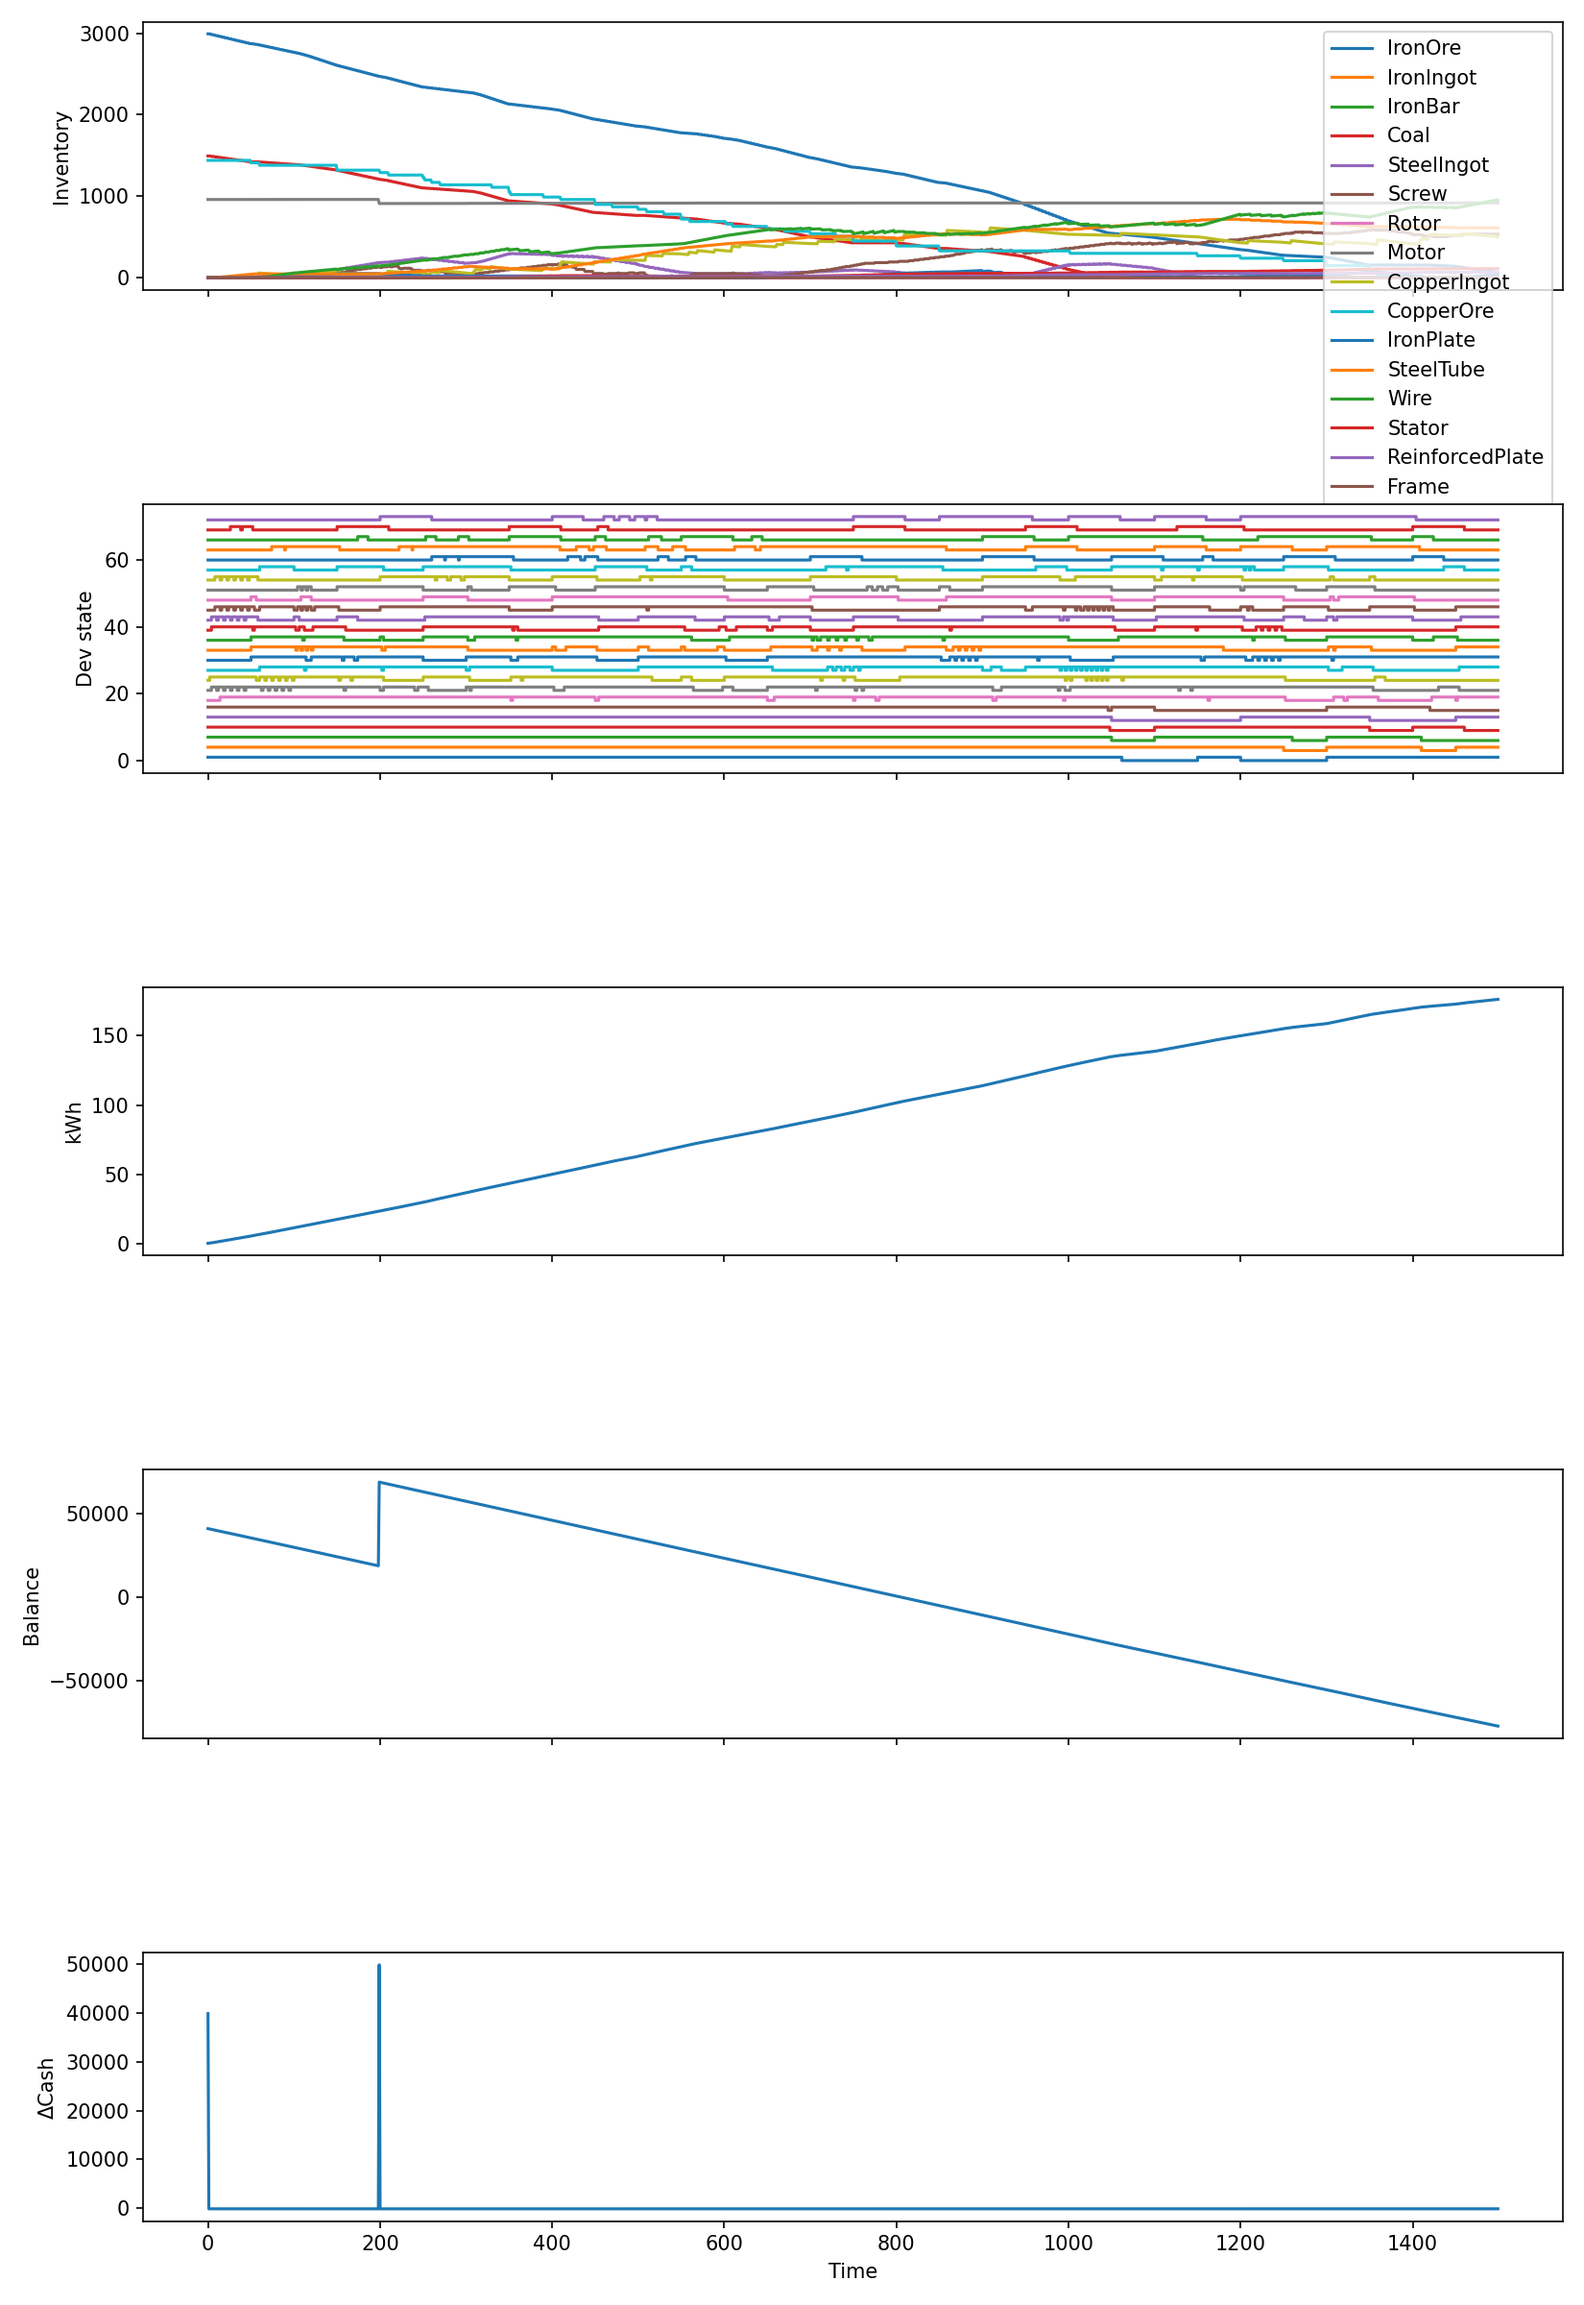
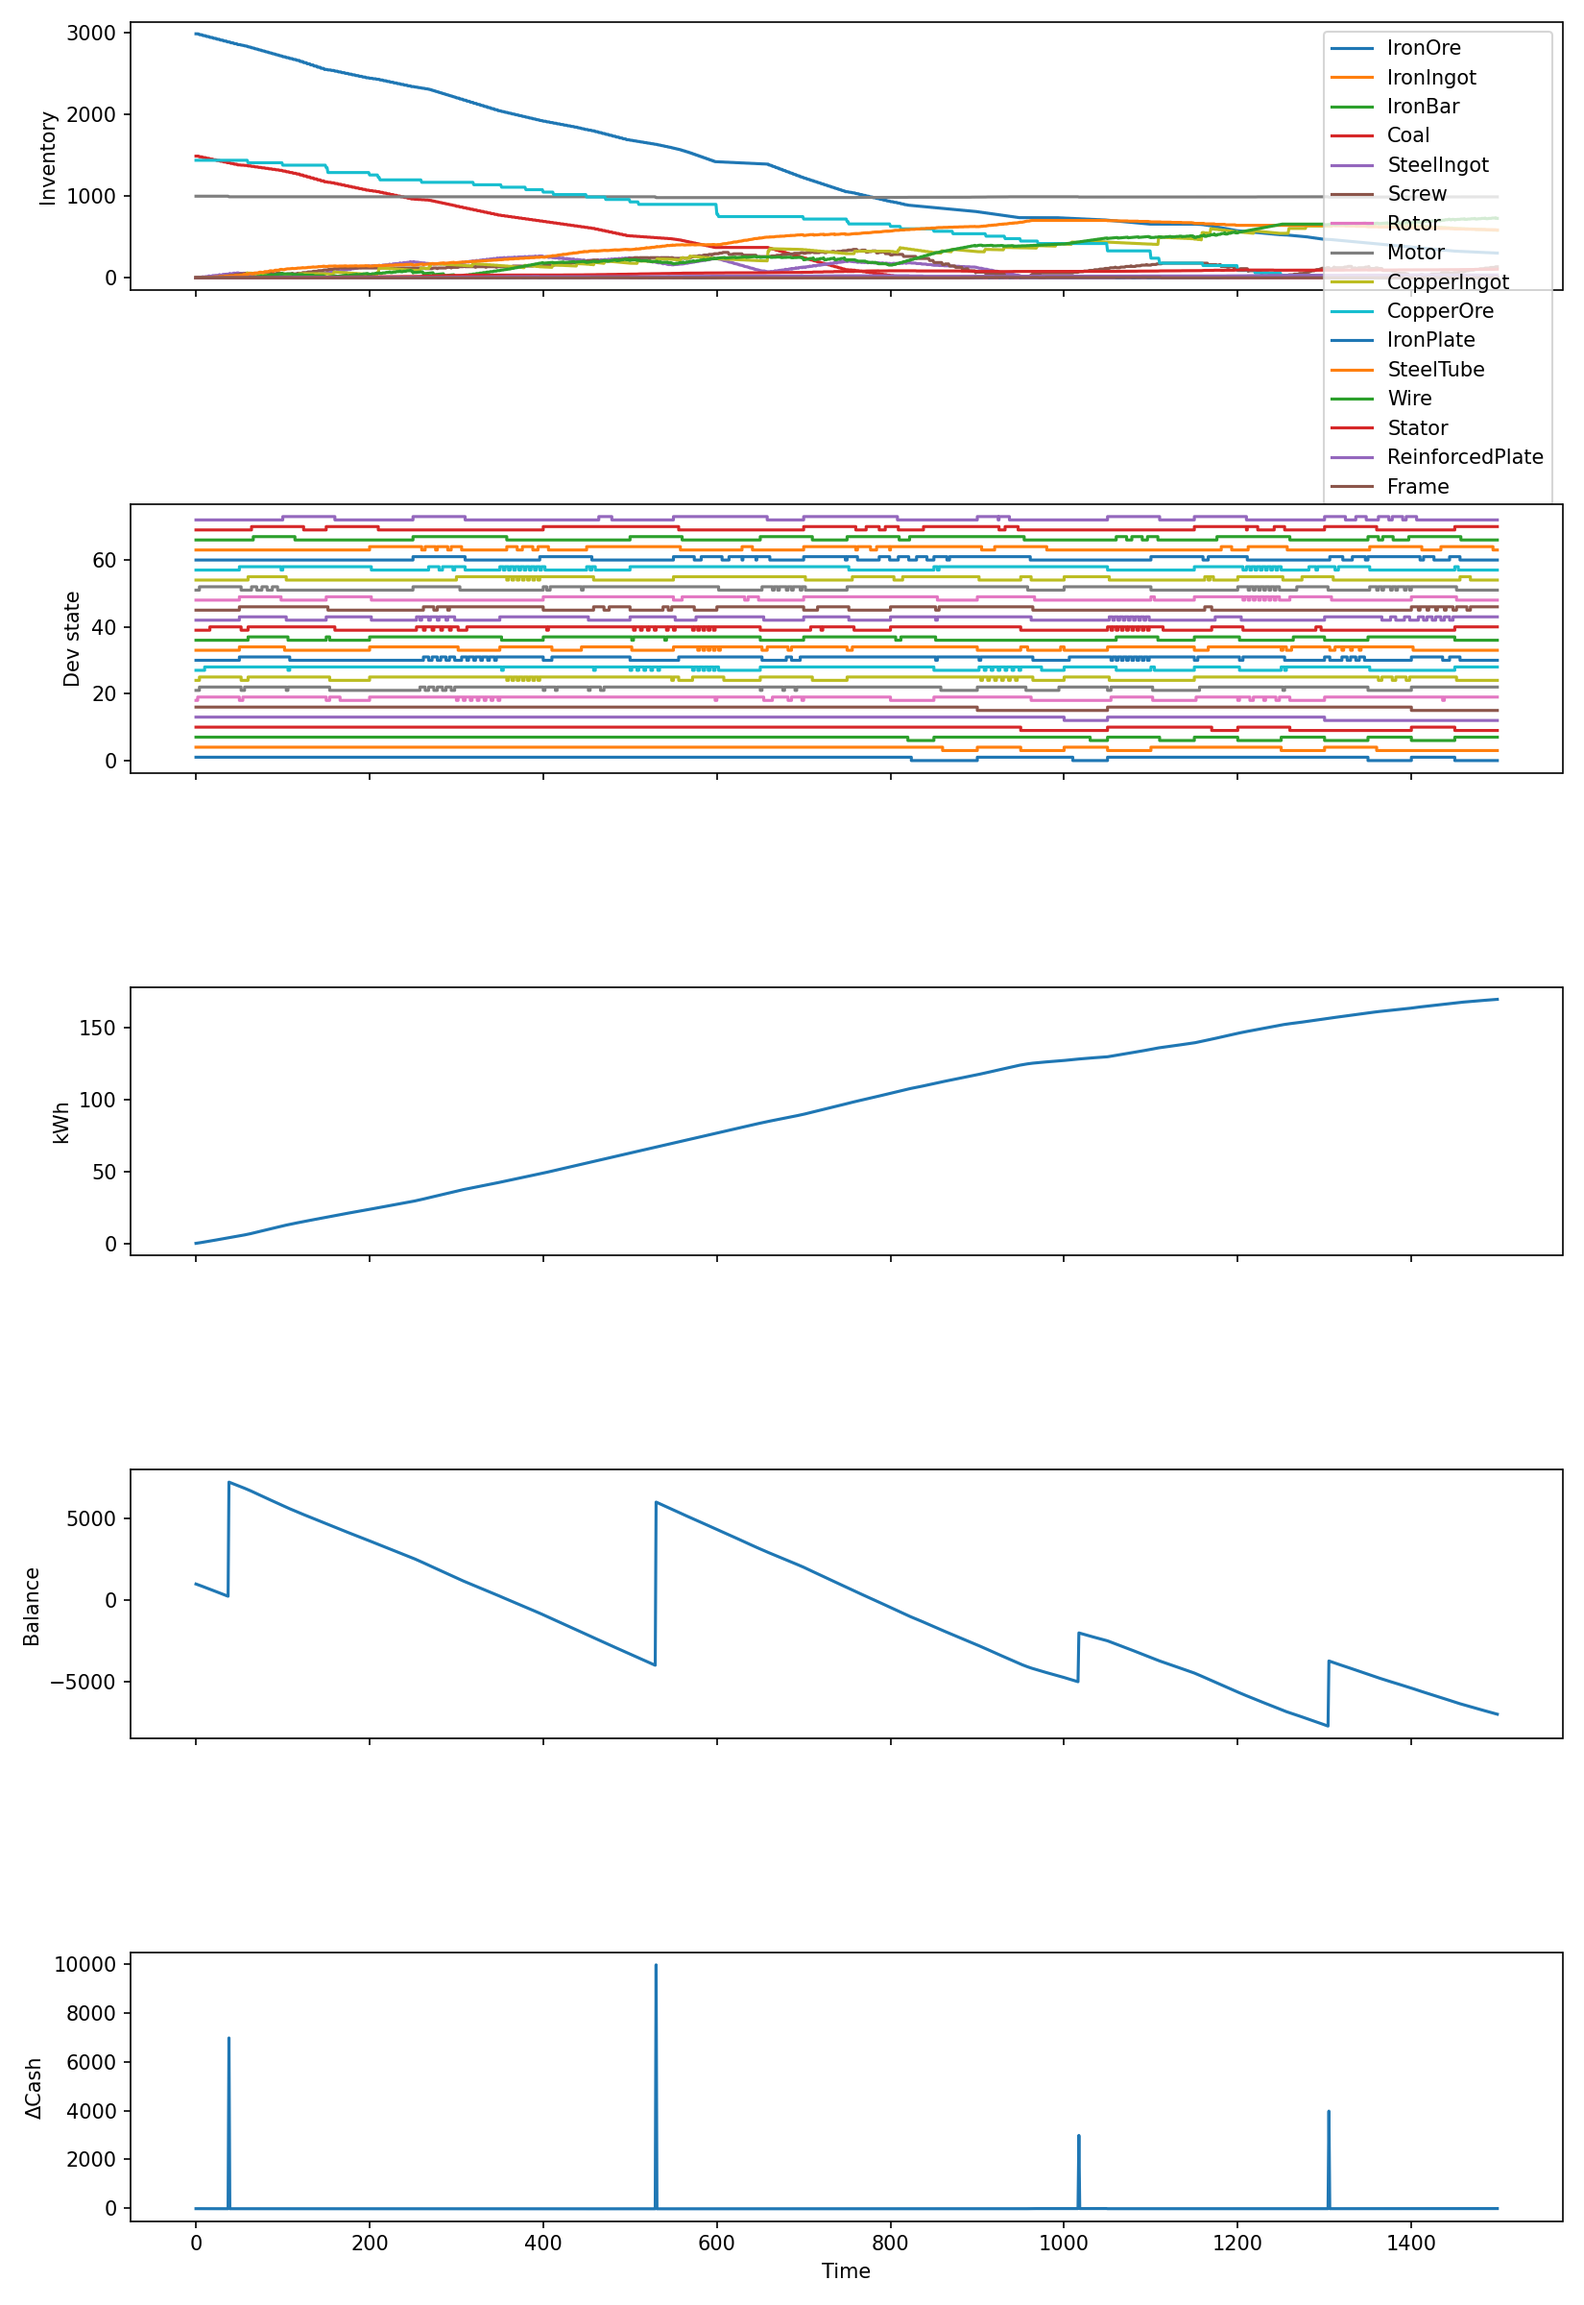
初步随机订单

diff --git a/pycode/OrderManagerRuntime.py b/pycode/OrderManagerRuntime.py
@@ -1,5 +1,8 @@
 # 轮次计时判断订单是否due了
 import bisect
+import random
+
+import numpy as np
 
 from pycode.data_class import Order
 
@@ -15,6 +18,8 @@ def get_runtime_order_obj_list(init_order_list) -> list:
 class OrderManagerRuntime:
     def __init__(self, init_order_list: list):
         self.runtime_order_obj_list = get_runtime_order_obj_list(init_order_list)
+        # TODO
+        self.tst_random_add_order(1500)
 
     def add_order_obj(self, order_obj: Order):
         bisect.insort(self.runtime_order_obj_list, order_obj)
@@ -49,3 +54,26 @@ class OrderManagerRuntime:
             else:
                 break
         return due_orders
+
+    def tst_random_add_order(self, time):
+        rng = np.random.default_rng()
+
+        quantity = rng.random(10)
+        due_time = rng.random(10)
+
+        quantity *= 10
+        quantity += 1
+        quantity = quantity.astype(int)
+
+        due_time *= time
+        due_time = due_time.astype(int)
+
+        names = ["Motor", "Frame"]
+        for q, d in zip(quantity, due_time):
+            n = random.choice(names)
+            o = Order(name=n, quantity=q, due_time=d)
+            self.add_order_obj(o)
+
+
+if __name__ == '__main__':
+    pass

diff --git a/pycode/dev_runtime.py b/pycode/dev_runtime.py
@@ -8,7 +8,7 @@ from pycode.data_class import Device, Recipe
 class DevState(Enum):
     IDLE = auto()
     RUNNING = auto()
-    OFF = auto()
+    # OFF = auto()
 
 
 @dataclass
